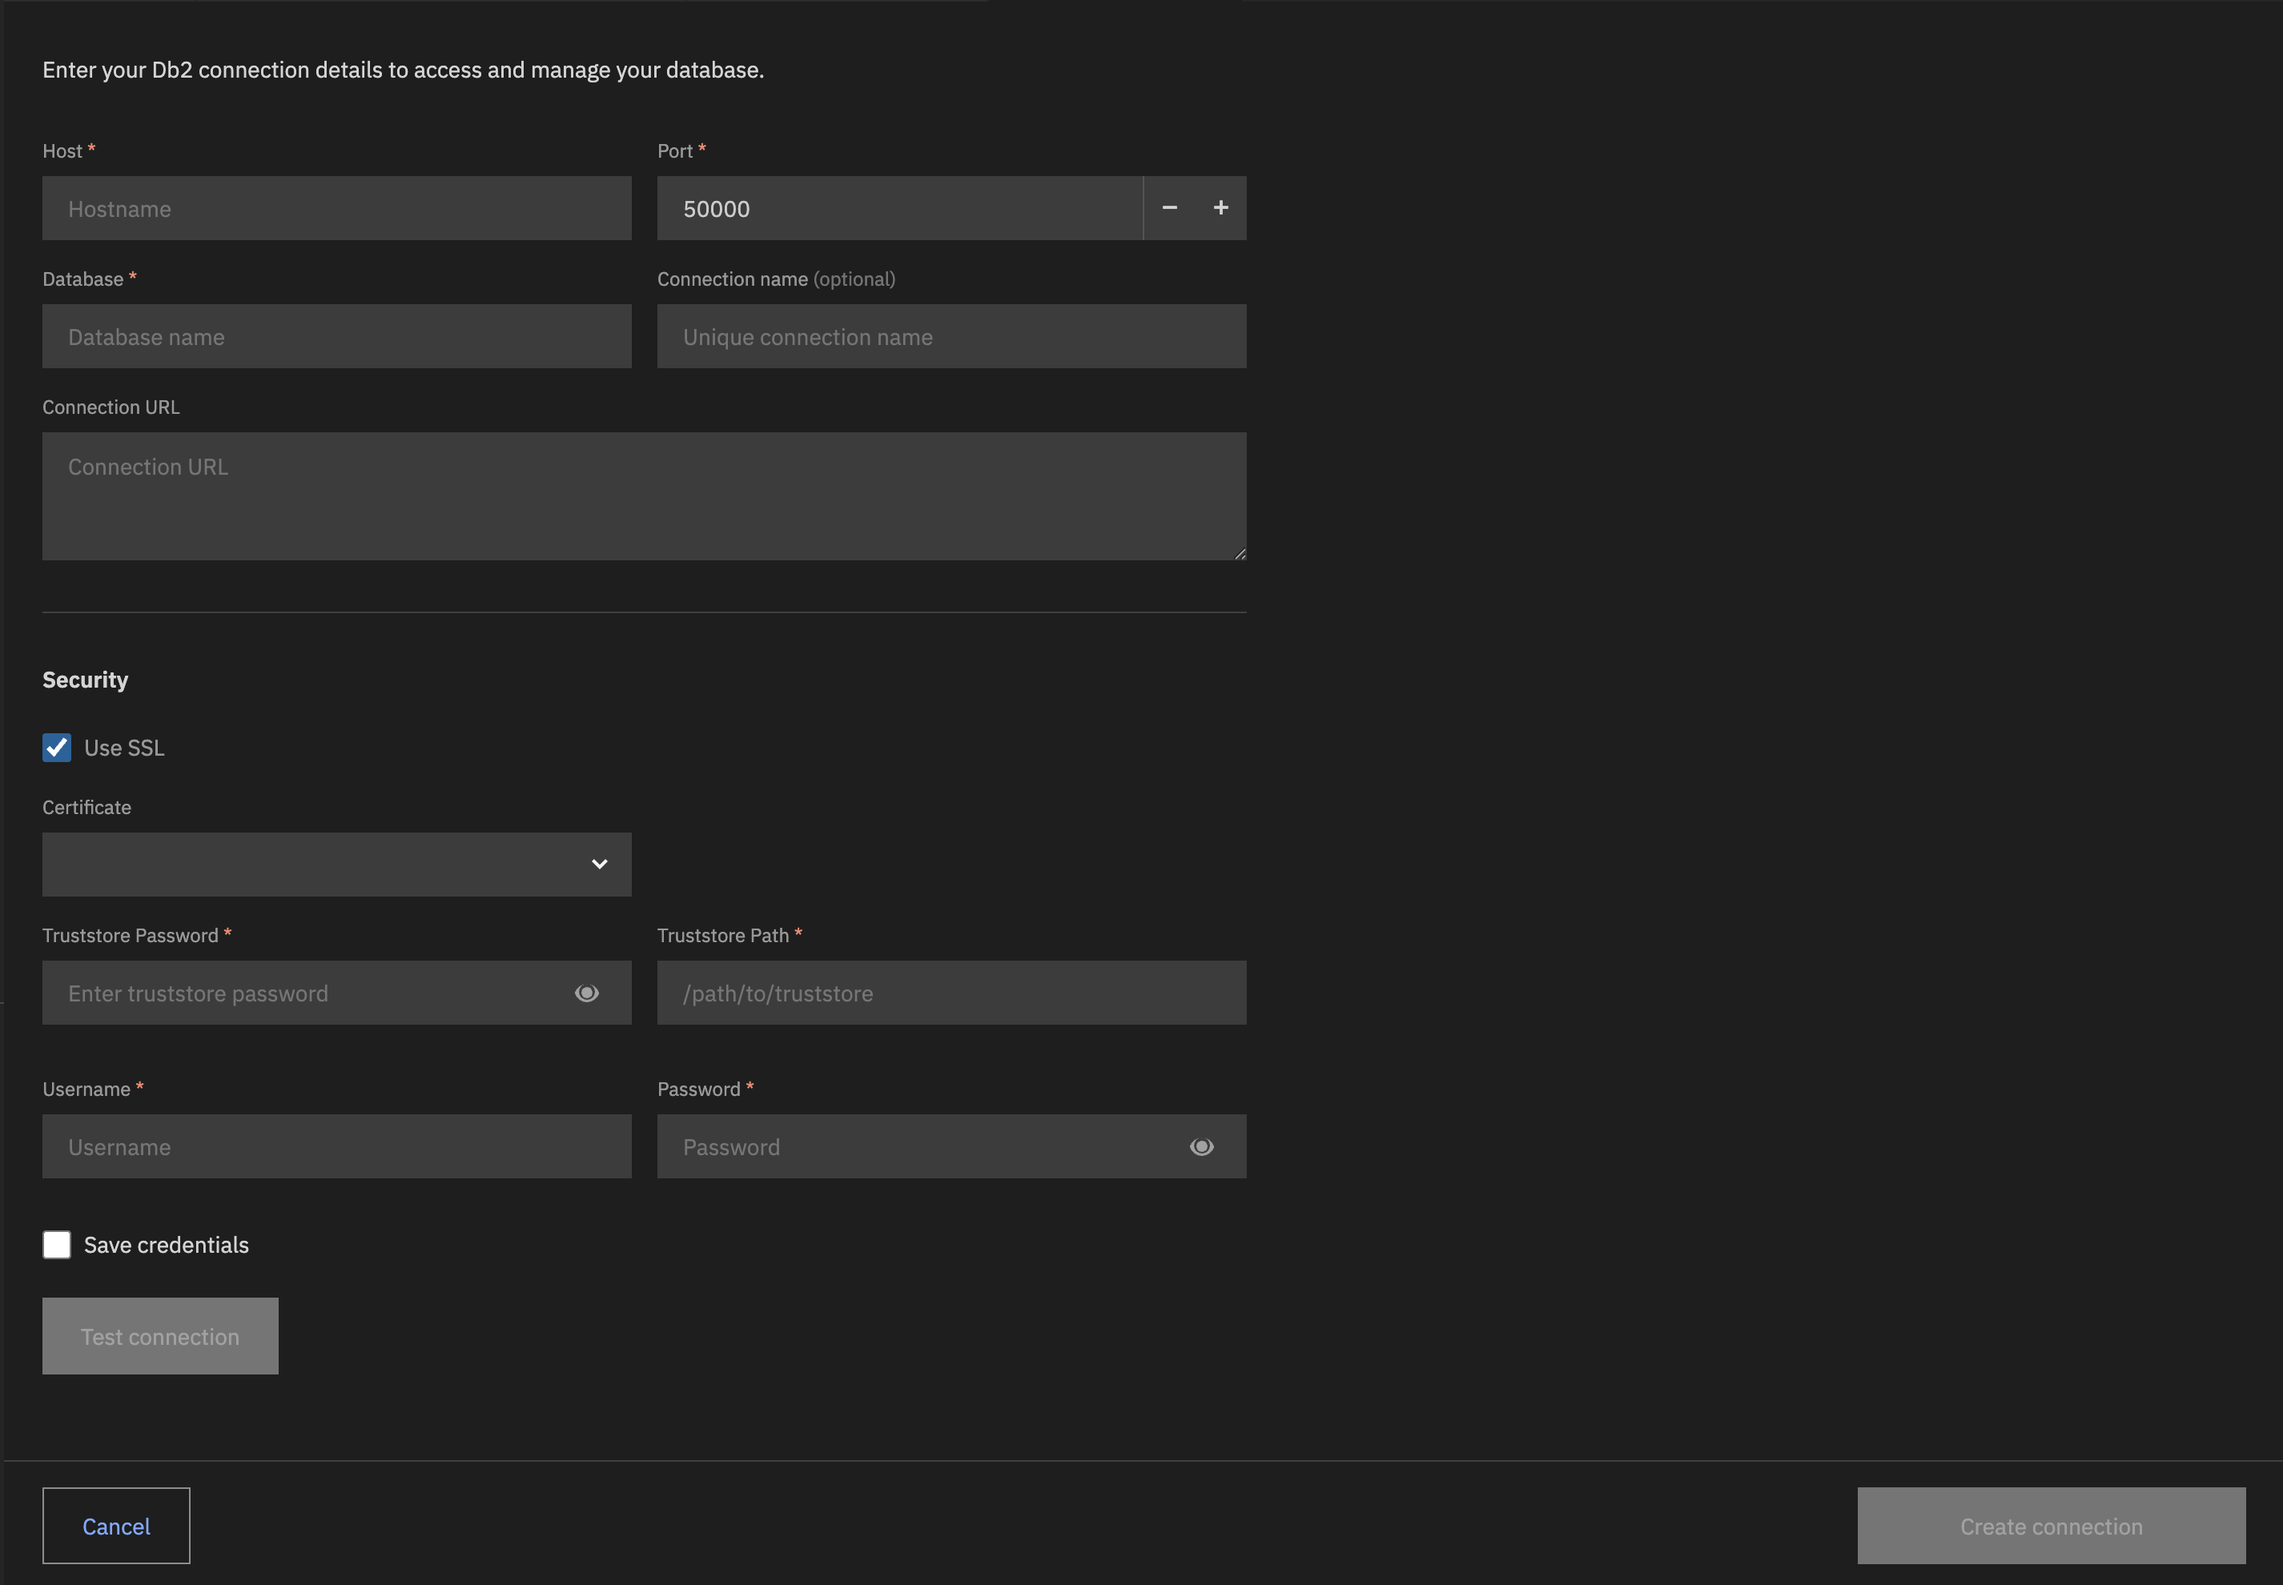
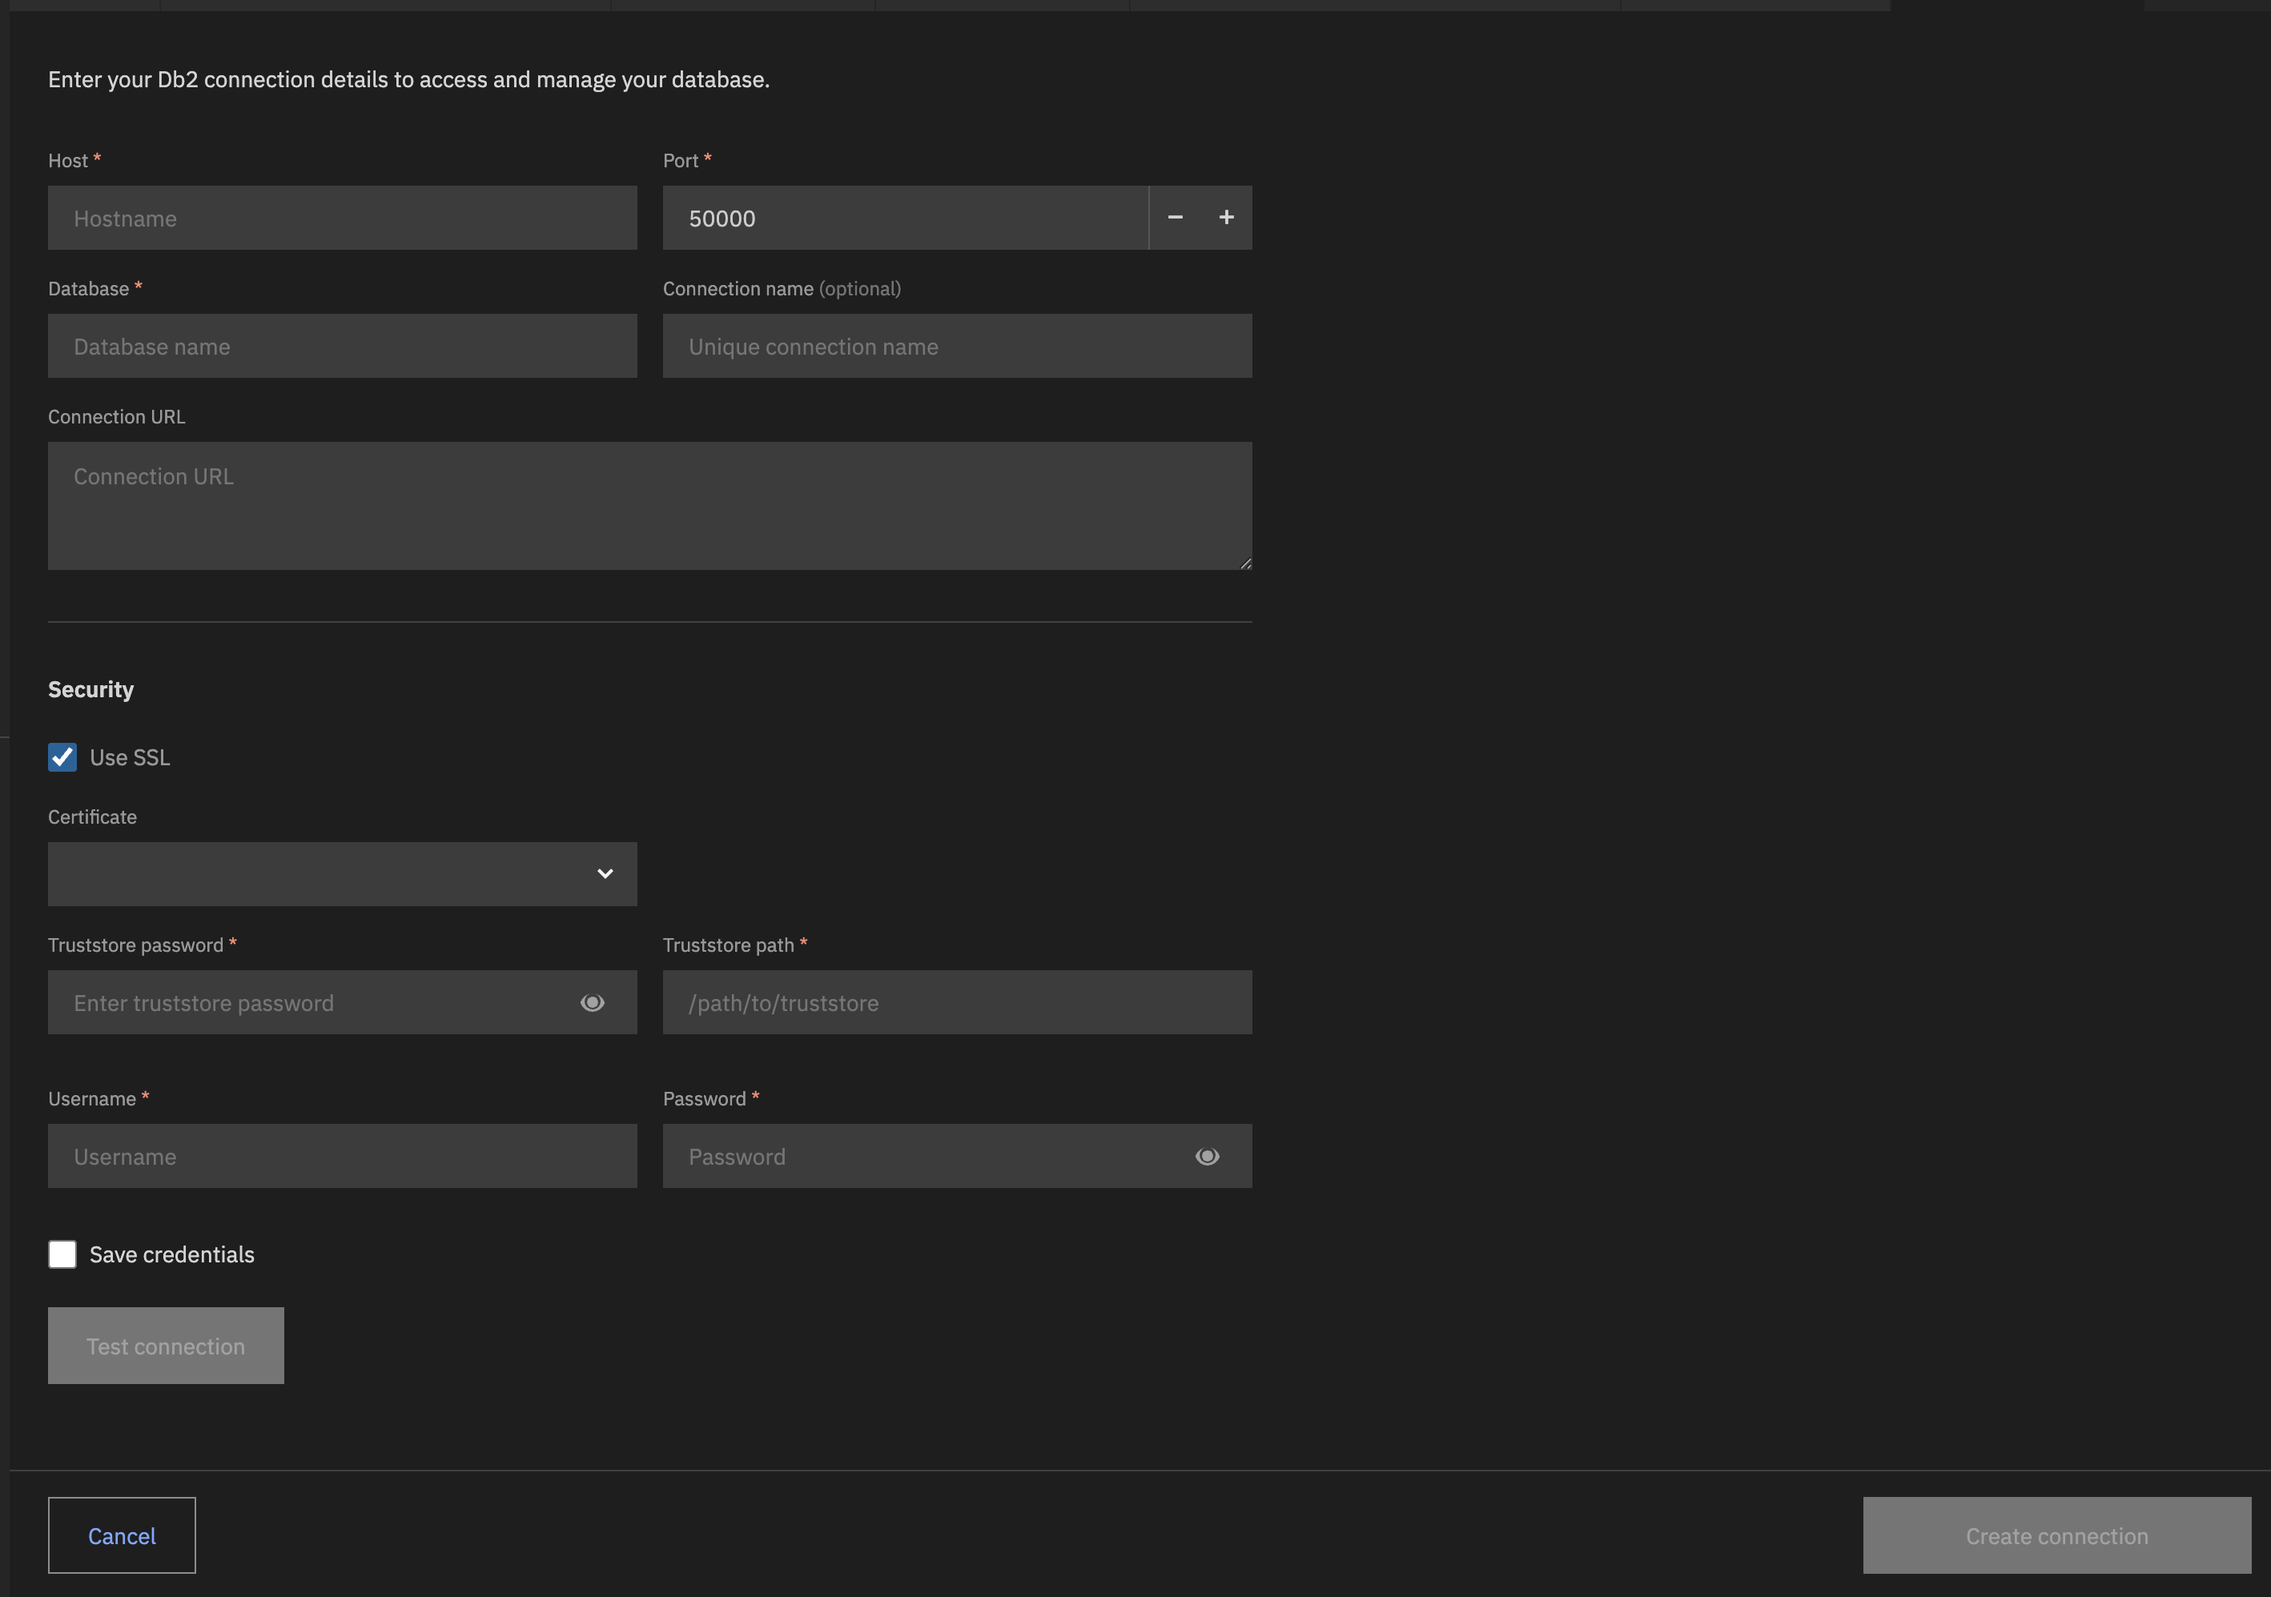
updated the image

diff --git a/docs/the-basics/creating-a-database-connection.md b/docs/the-basics/creating-a-database-connection.md
@@ -78,8 +78,8 @@ To work with IBM Db2 databases, you need to create a database connection to conn
       - Password: Password to access the Db2 instance.
 3. Under the **Security** section, the checkbox **Use SSL** is selected by default. This option is used to enable SSL encryption for the database connection.
       - **Certificate**: Select the appropriate SSL certificate from the list, or select **None** if SSL is not required.
-      - **Truststore Path**: Provide the path to your truststore file.
-      - **Truststore Password**: Enter the truststore password.
+      - **Truststore path**: Provide the path to your truststore file.
+      - **Truststore password**: Enter the truststore password.
 4. (Optional) Select the **Save credentials** checkbox to save your credentials.  
 5. Click **Test connection** to verify the credentials are correct.  
    You receive a **Test connection successful** notification if the credentials are correct.
